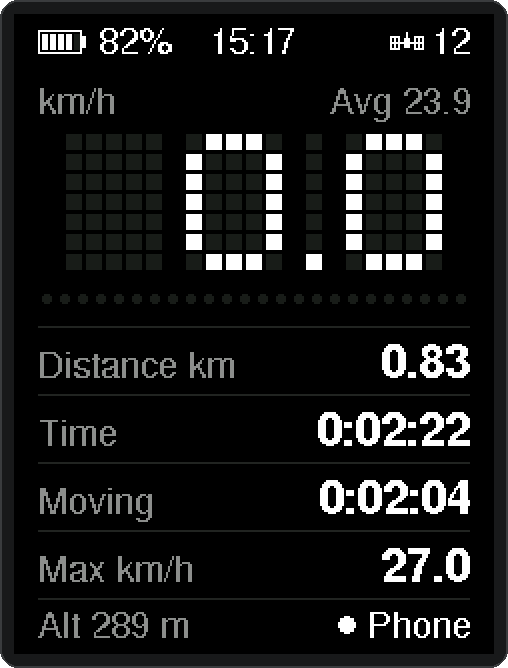
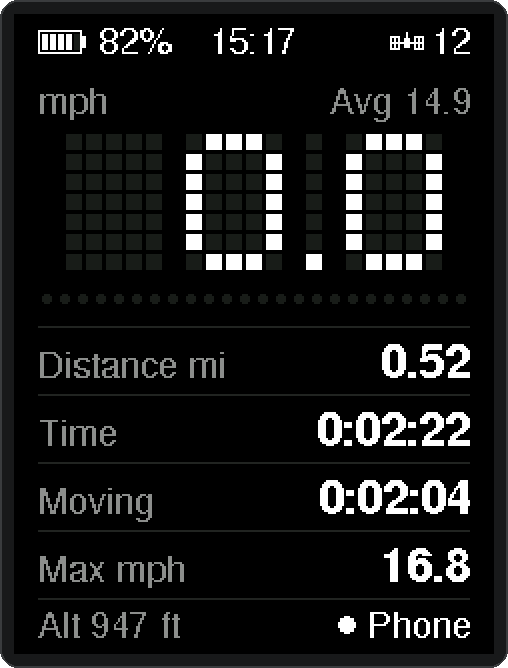
hub updates

diff --git a/docs/index.html b/docs/index.html
@@ -356,8 +356,7 @@
     }
     body[data-phase="listing"] .gauge .fill,
     body[data-phase="deleting"] .gauge .fill,
-    body[data-phase="reading"] .gauge .fill,
-    body[data-phase="saving"] .gauge .fill { animation: sweep 1.5s steps(24) infinite; }
+    body[data-phase="reading"] .gauge .fill { animation: sweep 1.5s steps(24) infinite; }
 
     /* Controls */
     #connect {
@@ -724,30 +723,6 @@
       letter-spacing: 0.08em;
       text-transform: uppercase;
     }
-    .savebar {
-      position: sticky;
-      bottom: calc(0.75rem + env(safe-area-inset-bottom));
-      display: flex;
-      align-items: center;
-      gap: 0.5rem;
-      margin-top: 1.5rem;
-      padding: 0.5rem 0.5rem 0.5rem 1rem;
-      border: 1.5px solid var(--ink);
-      border-radius: 16px;
-      background: var(--paper);
-      box-shadow: var(--drop);
-    }
-    .savebar span { flex: 1; min-width: 0; font-weight: 600; }
-    .savebar button {
-      height: 2.9rem;
-      padding: 0 1.1rem;
-      border-radius: 12px;
-      font-weight: 650;
-    }
-    #cfg-revert { border: 1.5px solid var(--rule); background: transparent; }
-    #cfg-save { border: 0; background: var(--ink); color: var(--paper); }
-    .savebar button:disabled { opacity: 0.4; }
-
     /* Firmware */
     .firmware { border-bottom: 0; }
     .firmware dl {
@@ -1142,12 +1117,6 @@
               <p class="bad hide" id="cfg-max-bad"></p>            </div>
           </details>
         </fieldset>
-
-        <div class="savebar hide" id="cfg-bar">
-          <span id="cfg-bar-label">Unsaved changes</span>
-          <button type="button" id="cfg-revert">Revert</button>
-          <button type="submit" id="cfg-save">Save</button>
-        </div>
       </form>
 
       <div class="group firmware" id="fw-group">
@@ -1274,7 +1243,8 @@
     const MAX_FILE = 16 * 1024 * 1024;
     const STALL_MS = 15000;
     const AUTH_MS = 10000;
-    const BUSY = ["listing", "downloading", "deleting", "reading", "saving", "updating"];
+    const CFG_PUSH_MS = 300;
+    const BUSY = ["listing", "downloading", "deleting", "reading", "updating"];
     const FW_CHUNK = 240;
 
     // Builds published by .github/workflows/firmware.yml. The URL is absolute
@@ -1352,10 +1322,6 @@
     const cfgForm = $("cfg-form");
     const cfgFields = $("cfg-fields");
     const cfgNotice = $("cfg-notice");
-    const cfgBar = $("cfg-bar");
-    const cfgBarLabel = $("cfg-bar-label");
-    const cfgSaveBtn = $("cfg-save");
-    const cfgRevertBtn = $("cfg-revert");
     const tyreSel = $("cfg-tyre");
     const wheelField = $("cfg-wheel-field");
     const wheelInput = $("cfg-wheel");
@@ -1401,6 +1367,9 @@
     let currentView = location.hash === "#settings" ? "settings" : "rides";
     let cfgDevice = null;
     let cfgDraft = null;
+    let cfgPushTimer = 0;
+    let cfgPushInFlight = false;
+    let cfgPushAgain = false;
     let hubCaption = captionEl.textContent;
     let hubCaptionError = false;
     let cfgCustom = false;
@@ -2671,6 +2640,13 @@
           renderRides();
           renderSettings();
         }, STALL_MS);
+      } else if (cfgPushInFlight) {
+        stallTimer = setTimeout(() => {
+          cfgPushInFlight = false;
+          cfgPushAgain = false;
+          setStatus("Transfer stalled. Move closer and try again.", true);
+          renderSettings();
+        }, STALL_MS);
       }
     }
 
@@ -2891,17 +2867,35 @@
         clearTimeout(stallTimer);
         const cfg = unpackSettings(bytes.subarray(1, 1 + CFG_LEN));
         const wasReading = phase === "reading";
-        if (phase === "reading" || phase === "saving") phase = "idle";
+        const wasPushing = cfgPushInFlight;
+        if (phase === "reading") phase = "idle";
         if (!cfg) {
+          cfgPushInFlight = false;
+          cfgPushAgain = false;
           setStatus("OBJECT sent settings this page does not understand. Update the page.", true);
           renderSettings();
           return;
         }
         cfgDevice = cfg;
-        cfgDraft = Object.assign({}, cfg);
-        cfgCustom = false;
         try { localStorage.setItem("object-hub-units", String(cfg.units)); } catch (e) {}
-        if (wasReading) setStatus(cfg.card ? "Settings loaded." : "No SD card in OBJECT.", !cfg.card);
+        if (wasReading) {
+          cfgDraft = Object.assign({}, cfg);
+          cfgCustom = false;
+          setStatus(cfg.card ? "Settings loaded." : "No SD card in OBJECT.", !cfg.card);
+        } else if (wasPushing) {
+          cfgPushInFlight = false;
+          if (!cfgDirty()) {
+            cfgDraft = Object.assign({}, cfg);
+            cfgCustom = false;
+          }
+          if (cfgPushAgain || cfgDirty()) {
+            cfgPushAgain = false;
+            scheduleSettingsPush();
+          }
+        } else if (!cfgDirty()) {
+          cfgDraft = Object.assign({}, cfg);
+          cfgCustom = false;
+        }
         renderRides();
         renderSettings();
         fwProbe();
@@ -2944,9 +2938,9 @@
       }
       if (type === META_CFG_SAVED) {
         const renamed = cfgDevice && cfgDraft && cfgDraft.name !== cfgDevice.name;
-        setStatus(renamed
-          ? "Saved. OBJECT shows up as " + cfgDraft.name + " the next time you connect."
-          : "Saved to " + (cfgDraft ? cfgDraft.name : "OBJECT") + ".");
+        if (renamed) {
+          setStatus("Saved. OBJECT shows up as " + cfgDraft.name + " the next time you connect.");
+        }
         return;
       }
       if (type === META_START && bytes.length >= 17) {
@@ -3009,8 +3003,12 @@
         }
         cancelling = false;
         const wasReading = phase === "reading";
-        const wasSaving = phase === "saving";
+        const wasPushing = cfgPushInFlight;
         const wasListing = phase === "listing";
+        cfgPushInFlight = false;
+        cfgPushAgain = false;
+        clearTimeout(cfgPushTimer);
+        cfgPushTimer = 0;
         phase = authorized ? "idle" : "awaiting";
         resetTransfer();
         if (bytes[1] === ERR_NO_SD) {
@@ -3019,7 +3017,7 @@
         }
         if (wasReading && bytes[1] === ERR_NAME) {
           setStatus("OBJECT's firmware is too old to change settings here. Update it, then try again.", true);
-        } else if (wasSaving && bytes[1] === 1) {
+        } else if (wasPushing && bytes[1] === 1) {
           setStatus("Insert a card to save settings.", true);
         } else {
           setStatus(ERRORS[bytes[1]] || "Transfer failed.", true);
@@ -3321,7 +3319,6 @@
       if (!ready) {
         cfgNotice.textContent = !cmdChar || !authorized ? "" : phase === "reading" ? "Reading settings from OBJECT…" : "Settings are not loaded yet.";
         cfgNotice.classList.toggle("hide", !cfgNotice.textContent);
-        cfgBar.classList.add("hide");
         syncUI();
         return;
       }
@@ -3376,13 +3373,6 @@
       showBad("cfg-wheel-bad", errs.wheel && custom);
       showBad("cfg-name-bad", errs.name);
       showBad("cfg-max-bad", errs.maxKmh, imperial ? "Enter 13 to 124 mph." : "Enter 20 to 200 km/h.");
-
-      const dirty = cfgDirty();
-      const invalid = errs.wheel || errs.name || errs.maxKmh;
-      cfgBar.classList.toggle("hide", !dirty && phase !== "saving");
-      cfgBarLabel.textContent = phase === "saving" ? "Saving…" : invalid ? "Fix the marked field" : "Unsaved changes";
-      cfgSaveBtn.disabled = busy || invalid || !c.card;
-      cfgRevertBtn.disabled = busy;
       syncUI();
     }
 
@@ -3390,6 +3380,31 @@
       if (!cfgDraft) return;
       Object.assign(cfgDraft, patch);
       renderSettings();
+      scheduleSettingsPush();
+    }
+
+    function canPushSettings() {
+      if (!cmdChar || !authorized || phase !== "idle") return false;
+      if (!cfgDraft || !cfgDraft.card) return false;
+      if (!cfgDirty()) return false;
+      const errs = cfgErrors(cfgDraft);
+      return !(errs.wheel || errs.name || errs.maxKmh);
+    }
+
+    function scheduleSettingsPush() {
+      clearTimeout(cfgPushTimer);
+      cfgPushTimer = 0;
+      if (!canPushSettings()) return;
+      cfgPushTimer = setTimeout(() => {
+        cfgPushTimer = 0;
+        pushSettings().catch(onSettingsError);
+      }, CFG_PUSH_MS);
+    }
+
+    function flushSettingsPush() {
+      clearTimeout(cfgPushTimer);
+      cfgPushTimer = 0;
+      if (canPushSettings()) pushSettings().catch(onSettingsError);
     }
 
     async function requestSettings() {
@@ -3401,19 +3416,30 @@
       await writeCmd(new Uint8Array([OP_CFG_GET]));
     }
 
-    async function saveSettings() {
-      if (!cmdChar || !authorized || phase !== "idle" || !cfgDirty()) return;
-      const errs = cfgErrors(cfgDraft);
-      if (errs.wheel || errs.name || errs.maxKmh) return;
-      phase = "saving";
-      setStatus("Saving settings…");
-      renderSettings();
+    async function pushSettings() {
+      if (!canPushSettings()) return;
+      if (cfgPushInFlight) {
+        cfgPushAgain = true;
+        return;
+      }
+      cfgPushInFlight = true;
+      cfgPushAgain = false;
       noteActivity();
-      await writeCmd(packSettings(cfgDraft));
+      try {
+        await writeCmd(packSettings(cfgDraft));
+      } catch (err) {
+        cfgPushInFlight = false;
+        cfgPushAgain = false;
+        throw err;
+      }
     }
 
     function onSettingsError(err) {
       phase = "idle";
+      cfgPushInFlight = false;
+      cfgPushAgain = false;
+      clearTimeout(cfgPushTimer);
+      cfgPushTimer = 0;
       setStatus(err.message || "Settings failed.", true);
       renderSettings();
     }
@@ -3710,11 +3736,12 @@
         if (!push) history.replaceState(null, "", currentView === "settings" ? "#settings" : location.pathname + location.search);
         return;
       }
+      if (currentView === "settings" && next !== "settings") flushSettingsPush();
       currentView = next;
       if (push) {
         history.pushState(null, "", next === "settings" ? "#settings" : location.pathname + location.search);
       }
-      if (currentView === "settings" && !cfgDirty()) requestSettings().catch(onSettingsError);
+      if (currentView === "settings" && !cfgDirty() && !cfgPushInFlight) requestSettings().catch(onSettingsError);
       if (currentView === "settings") fwProbe();
       renderSettings();
     }
@@ -3767,18 +3794,14 @@
         editSettings({ maxKmh: Number.isFinite(kmh) ? Math.min(Math.max(kmh, 0), 255) : NaN });
       });
       for (const input of [wheelInput, nameInput, maxInput]) {
-        input.addEventListener("blur", renderSettings);
+        input.addEventListener("blur", () => {
+          renderSettings();
+          flushSettingsPush();
+        });
       }
-      cfgRevertBtn.addEventListener("click", () => {
-        if (!cfgDevice) return;
-        cfgDraft = Object.assign({}, cfgDevice);
-        cfgCustom = false;
-        setStatus("Changes discarded.");
-        renderSettings();
-      });
       cfgForm.addEventListener("submit", (event) => {
         event.preventDefault();
-        saveSettings().catch(onSettingsError);
+        flushSettingsPush();
       });
     }
 
@@ -3833,6 +3856,10 @@
     function onDisconnected() {
       clearTimeout(stallTimer);
       clearTimeout(fwProbeTimer);
+      clearTimeout(cfgPushTimer);
+      cfgPushTimer = 0;
+      cfgPushInFlight = false;
+      cfgPushAgain = false;
       fwProbing = false;
       fwInstalled = null;
       if (delDialog.open) delDialog.close();

diff --git a/docs/sw.js b/docs/sw.js
@@ -1,5 +1,5 @@
 // Offline shell for the hub. Bump CACHE when the list below changes.
-const CACHE = "object-hub-v8";
+const CACHE = "object-hub-v11";
 const SHELL = [
   "./",
   "./manifest.webmanifest",

diff --git a/tools/screens/emulator.cpp b/tools/screens/emulator.cpp
@@ -311,7 +311,7 @@ static void phoneDisconnect() { Bluefruit.disconnect(0); }
 // Send the device's current settings back with one field changed, the way
 // the hub's Settings view does.
 static void phoneSaveSettings(void (*edit)(uint8_t *rec)) {
-  uint8_t b[BLE_CMD_MAX];
+  uint8_t b[1 + BLE_CFG_LEN];
   b[0] = BLE_OP_CFG_SET;
   bleCfgPack(b + 1);
   edit(b + 1);
@@ -556,7 +556,7 @@ static void scSettings() {
   runFor(1000);
   phoneSaveSettings([](uint8_t *rec) { rec[7] = UNITS_IMPERIAL; });
   runFor(600);
-  shot("32_flash_settings_saved", "Settings saved from the hub: units switch to imperial right away");
+  shot("32_flash_settings_saved", "Hub switched units to imperial mid-ride; the face redraws at once");
   runFor(2000);
   phoneDisconnect();
   runFor(1000);

diff --git a/README.md b/README.md
@@ -201,9 +201,9 @@ After connecting and allowing the link, switch the hub from **Rides** to **Setti
 - **Device:** the Bluetooth name, and the time zone used to name saved rides (one tap copies the phone's).
 - **Advanced:** the speed above which wheel readings are ignored as noise.
 
-Change what you need and tap **Save**. OBJECT checks every value, rewrites `CONFIG.TXT` on the card and applies it straight away, with no reboot. A new wheel size counts only from that moment, so the distance already ridden stays correct. A new name is used from the next connection. Saving needs a card in the device.
+Change what you need: OBJECT checks every value, rewrites `CONFIG.TXT` on the card and applies it as you go, with no reboot. A new wheel size counts only from that moment, so the distance already ridden stays correct. A new name is used from the next connection. Changing settings needs a card in the device.
 
-<p align="center"><img src="docs/screens/settings-saved.png" width="180" alt="Ride screen reading Settings saved, now in mph and miles"><br><sub><b>Settings saved</b><br>switched to imperial from the hub mid-ride</sub></p>
+<p align="center"><img src="docs/screens/settings-saved.png" width="180" alt="Ride screen now in mph and miles after a mid-ride units change from the hub"><br><sub><b>Imperial from the hub</b><br>units switch mid-ride as soon as you change them</sub></p>
 
 ## Update the firmware from your phone
 
